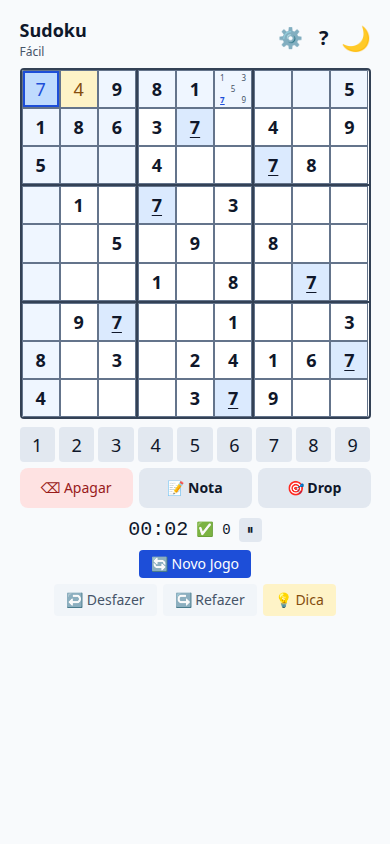
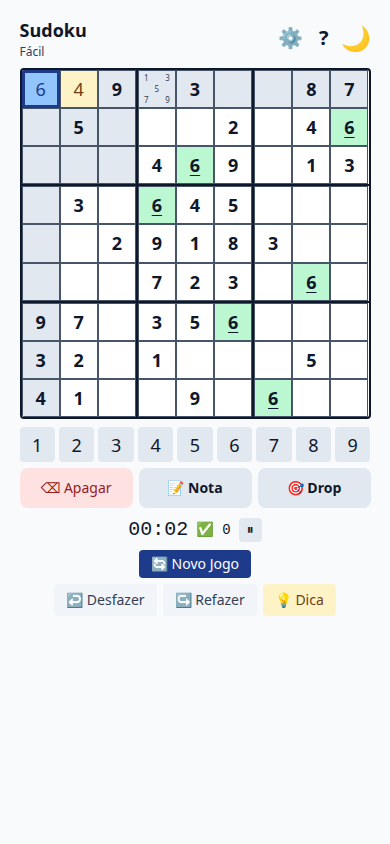
fix: strengthen theme contrast and cell state hierarchy

Changed region(s): [[0.0308, 0.0616, 0.9538, 0.5237], [0.3385, 0.6469, 0.6462, 0.7085]]

diff --git a/style/input.css b/style/input.css
@@ -7,22 +7,22 @@
   --ui-control: #e2e8f0;
   --ui-control-hover: #cbd5e1;
   --ui-cell-hover: #f1f5f9;
-  --ui-grid-thin: #64748b;
-  --ui-grid-strong: #334155;
-  --ui-peer: #eff6ff;
-  --ui-matching: #dbeafe;
-  --ui-selected: #bfdbfe;
+  --ui-grid-thin: #475569;
+  --ui-grid-strong: #0f172a;
+  --ui-peer: #e2e8f0;
+  --ui-matching: #bbf7d0;
+  --ui-selected: #93c5fd;
   --ui-secondary: #f8fafc;
   --ui-error: #fee2e2;
   --ui-error-text: #991b1b;
   --ui-hint: #fef3c7;
-  --ui-hint-text: #854d0e;
+  --ui-hint-text: #713f12;
   --ui-text: #0f172a;
-  --ui-user: #1d4ed8;
-  --ui-accent: #1d4ed8;
-  --ui-muted: #475569;
-  --ui-notes: #475569;
-  --ui-primary: #1d4ed8;
+  --ui-user: #1e3a8a;
+  --ui-accent: #1e3a8a;
+  --ui-muted: #334155;
+  --ui-notes: #334155;
+  --ui-primary: #1e3a8a;
   --ui-primary-hover: #1e40af;
   --ui-on-primary: #ffffff;
   --ui-success: #dcfce7;
@@ -33,25 +33,25 @@
 
 .dark {
   --ui-page: #0f172a;
-  --ui-cell: #1e293b;
+  --ui-cell: #162338;
   --ui-control: #334155;
   --ui-control-hover: #475569;
   --ui-cell-hover: #26374d;
-  --ui-grid-thin: #94a3b8;
-  --ui-grid-strong: #cbd5e1;
-  --ui-peer: #24364f;
-  --ui-matching: #2b4567;
-  --ui-selected: #1e40af;
+  --ui-grid-thin: #a8b8cf;
+  --ui-grid-strong: #f1f5f9;
+  --ui-peer: #30435d;
+  --ui-matching: #174a3b;
+  --ui-selected: #0c245c;
   --ui-secondary: #202f43;
   --ui-error: #4c1d2b;
   --ui-error-text: #fecaca;
   --ui-hint: #422f16;
   --ui-hint-text: #fde68a;
   --ui-text: #f8fafc;
-  --ui-user: #93c5fd;
-  --ui-accent: #93c5fd;
+  --ui-user: #bfdbfe;
+  --ui-accent: #bfdbfe;
   --ui-muted: #cbd5e1;
-  --ui-notes: #cbd5e1;
+  --ui-notes: #e2e8f0;
   --ui-primary: #93c5fd;
   --ui-primary-hover: #bfdbfe;
   --ui-on-primary: #0f172a;
@@ -110,7 +110,7 @@
   .sudoku-cell[data-cell-state="error"] { background: var(--ui-error); }
   .sudoku-cell[data-cell-state="default"]:hover { background: var(--ui-cell-hover); }
   .sudoku-cell[data-selected="true"], .sudoku-cell:focus-visible {
-    outline: 2px solid var(--ui-accent);
+    outline: 3px solid var(--ui-accent);
     outline-offset: -3px;
     z-index: 1;
   }

diff --git a/docs/theme-contrast-review.md b/docs/theme-contrast-review.md
@@ -1,0 +1,57 @@
+# Theme contrast review
+
+Reviewed 2026-10-09 for the existing theme PR (#3). Styling remains Tailwind v4
+with semantic CSS custom properties in `style/input.css`. No saved-state change.
+
+## Comparisons
+
+- [Sudoku.com](https://sudoku.com/): direct browser inspection of the light board
+  showed dark digits, heavier 3×3 boundaries, neutral peer shading, stronger
+  matching shading, and a blue selected cell. This supports a clear hierarchy;
+  it does not establish that their palette meets accessibility requirements.
+- [Sudoku Maven's own guide](https://sudokumaven.com/how-to-play-sudoku/) distinguishes
+  softly highlighted row/column/box peers from matching numbers and matching
+  pencil marks. Its documentation supports keeping these roles distinct.
+- [Apple News Sudoku's guide](https://support.apple.com/en-ph/guide/iphone/iph9b53d2906/ios)
+  documents matching-number highlighting from either the keypad or a filled
+  square. Digit scanning is a separate task from tracking the active cell.
+
+These are interaction/design references, not palettes copied from competitors.
+Only Sudoku.com's light board was visually compared; no claim is made about
+competitor dark-theme contrast.
+
+## Adjustments
+
+Neutral slate peers, green matching digits, and blue selection now distinguish
+location from digit scanning. Matching digits retain their underline; selection
+has a 3px inset outline that survives error/hint backgrounds. Hints remain amber
+and errors red with an exclamation marker. This keeps color from carrying every
+meaning alone. Dark cells use deep navy, with brighter player entries/notes and
+higher-contrast box boundaries; light entries/notes and boundaries are darker.
+
+The outline is the primary active-cell cue in dark mode. Its selected-fill
+contrast is 10.39:1 (light: 5.74:1). Tinted fills intentionally remain softer than
+text and outlines so a whole highlighted row does not overwhelm the puzzle.
+
+| Contrast pair | Light | Dark |
+| --- | ---: | ---: |
+| Peer / default cell | 1.23:1 | 1.57:1 |
+| Matching / default cell | 1.21:1 | 1.56:1 |
+| Selected / peer | 1.46:1 | 1.47:1 |
+| Selected / matching | 1.49:1 | 1.46:1 |
+| Given / selected | 9.90:1 | 14.11:1 |
+| Player entry / selected | 5.74:1 | 10.39:1 |
+| Notes / selected | 5.74:1 | 11.97:1 |
+
+`npm run test:theme` checks board text at ≥5.5:1 across every cell background,
+other text at ≥4.5:1, and grid/selection indicators at ≥3:1. New hierarchy tests
+also require peer/matching fills versus default ≥1.2:1 and selection versus
+those fills ≥1.4:1. The latter are product targets, not WCAG requirements.
+[WCAG text contrast](https://www.w3.org/WAI/WCAG22/Understanding/contrast-minimum.html)
+and [non-text contrast](https://www.w3.org/WAI/WCAG21/understanding/non-text-contrast.html)
+remain the accessibility references. Token checks do not constitute a full
+accessibility audit or guarantee individual perception on every display.
+
+Production browser verification covers both themes at 390×844 and 1280×900,
+all routes, highlights, selected errors/hints, editable entries, undo, legacy
+saves, and horizontal overflow. Screenshots are in `docs/themes/`.

diff --git a/README.md b/README.md
@@ -154,8 +154,9 @@ backgrounds take precedence over selection, while an inset blue outline keeps
 the active cell visible. Matching numbers also have an underline; errors have
 an exclamation mark. Original clues use bold text, player entries use blue,
 and notes use a muted color. Same-box peers are highlighted alongside row and
-column peers. Selection has the strongest blue fill and outline; peer and
-matching tints step down in strength to keep attention on the active cell.
+column peers. Selection has a strong blue fill and 3px outline; neutral peers and green
+matching highlights separate location from digit scanning. Board text/notes
+meet a 5.5:1 product contrast target, above the 4.5:1 WCAG minimum.
 Dark surfaces use layered navy rather than black for long playing sessions.
 
 `npm run test:theme` checks text and indicator contrast; this is a color check,
@@ -163,7 +164,8 @@ not a complete accessibility audit. New saves retain original clue provenance.
 Older saves retain the correct-number locks they already had because original
 clues cannot reliably be reconstructed.
 
-See [CHANGELOG.md](CHANGELOG.md). The initial shared version is `0.9.0`. Future
+See [the contrast review](docs/theme-contrast-review.md) for comparisons and
+measured ratios, and [CHANGELOG.md](CHANGELOG.md). The initial shared version is `0.9.0`. Future
 PRs bump minor for compatible changes (including added state), or major for
 breaking saved-game changes. Keep both manifest/lockfile pairs synchronized.
 Declare `Game-state compatibility: compatible` or `breaking` in the PR body;

diff --git a/VISION.md b/VISION.md
@@ -57,7 +57,7 @@ These statements describe code present in the repository. Browser behavior, perf
 
 **Acceptance:** Verify the affected flows at phone and tablet sizes, check touch target sizes and contrast, and review keyboard and screen-reader behavior. Do not declare compliance based on markup alone.
 
-Color-token tests cover text and indicator contrast in both themes. Original clues, player entries, hints, errors, selection, matching numbers, and row/column/box peers have distinct treatments. A full keyboard/screen-reader and target-device audit remains open.
+Color-token tests cover text and indicator contrast in both themes, including a 5.5:1 board-text target and stronger separation of highlight fills. Original clues, player entries, hints, errors, selection, matching numbers, and row/column/box peers have distinct treatments. A full keyboard/screen-reader and target-device audit remains open.
 
 ### 4. Persistence and reliability
 

diff --git a/CHANGELOG.md b/CHANGELOG.md
@@ -15,6 +15,8 @@ The initial shared version is 0.9.0.
 
 ### Changed
 
+- Stronger board contrast in both themes: neutral peers, green matching numbers, a 3px active outline, clearer grid boundaries, and brighter dark-mode entries/notes.
+
 - Original clues, player entries, and hints have distinct typography and colors; peers include the selected cell's 3×3 box.
 - Package versions now share the 0.9.0 baseline, with explicit saved-game compatibility rules for future PRs.
 - Reproducible project-local Rust/Trunk tooling and separate Vercel install/build phases ([#2](https://github.com/wuerges/free-sudoku-spa/pull/2)).

diff --git a/docs/architecture.md b/docs/architecture.md
@@ -52,7 +52,7 @@ Hosting defaults to revalidation, with immutable caching reserved for hashed Tru
 
 `style/input.css` defines light and dark `--ui-*` tokens exposed through Tailwind
 v4 semantic utilities. Cell state precedence is error, hint, selected, matching,
-peer, secondary, default. Selection has a separate outline, including on errors
+peer, secondary, default. Selection has a separate 3px outline, including on errors
 and hints. The early theme script in `index.html` applies system preference
 before WASM renders.
 
